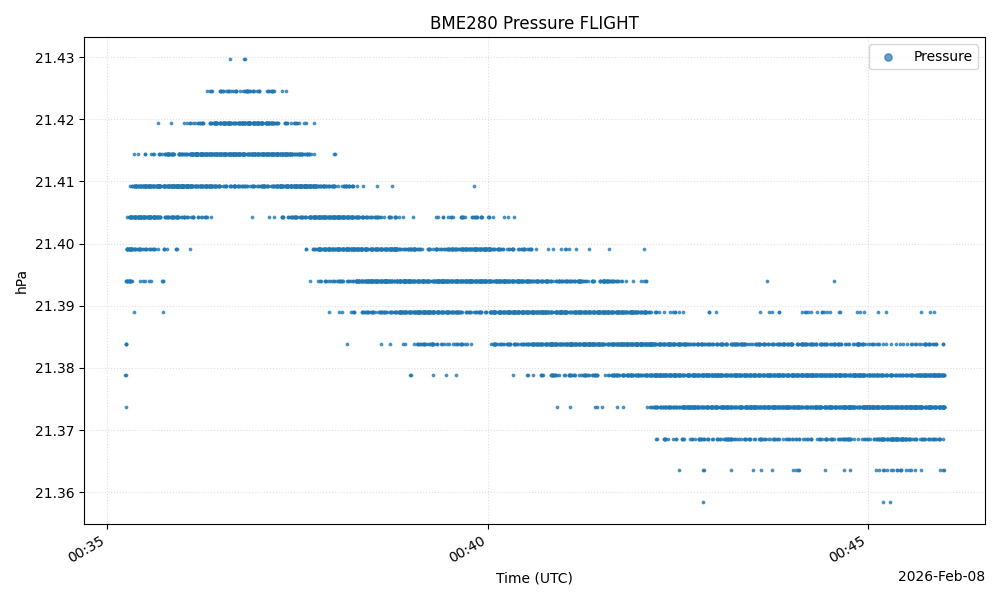
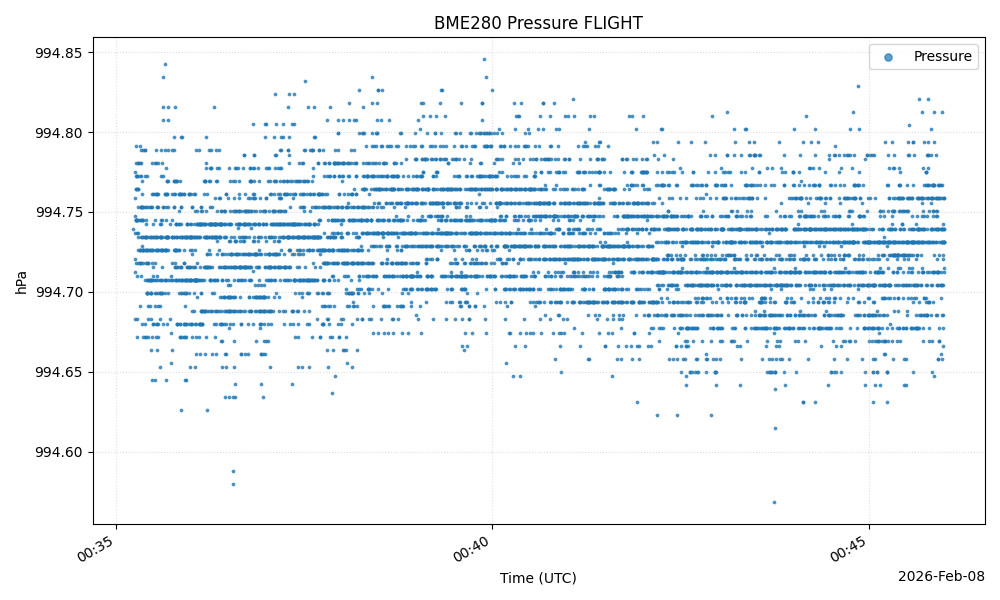
updated plot to fix axes

diff --git a/lab3/plot.py b/lab3/plot.py
@@ -152,13 +152,13 @@ if __name__ == "__main__":
 
         # 1. Temperatures (5 System + 1 BME)
         # Note: BME Temp is index 2 in your parsing logic
-        all_temps = mission_data['temps'] + [mission_data['bme'][2]]
+        all_temps = mission_data['temps'] + [mission_data['bme'][0]]
         temp_labels = [f'T{i+1}' for i in range(5)] + ['BME Temp']
         temp_colors = ['#ff9999', '#ff4d4d', '#cc0000', '#800000', '#4d0000', '#0000ff']
         create_window(f"Temperatures {mode}", time_data, all_temps, temp_labels, "°C", color_map=temp_colors)
 
         # 2. Accelerometer
-        create_window(f"Accelerometer {mode}", time_data, mission_data['accel'], ['X', 'Y', 'Z'], "m/s²")
+        create_window(f"Accelerometer {mode}", time_data, mission_data['accel'], ['X', 'Y', 'Z'], "m/s² OR g")
 
         # 3. Gyroscope
         create_window(f"Gyroscope {mode}", time_data, mission_data['gyro'], ['X', 'Y', 'Z'], "rad/s")
@@ -167,22 +167,22 @@ if __name__ == "__main__":
         create_window(f"Magnetometer {mode}", time_data, mission_data['mag'], ['X', 'Y', 'Z'], "μT")
 
         # 5. BME Pressure
-        create_window(f"BME280 Pressure {mode}", time_data, [mission_data['bme'][0]], ["Pressure"], "hPa")
+        create_window(f"BME280 Pressure {mode}", time_data, [mission_data['bme'][1]], ["Pressure"], "hPa")
 
         # 6. BME Humidity
-        create_window(f"BME280 Humidity {mode}", time_data, [mission_data['bme'][1]], ["Humidity"], "%")
+        create_window(f"BME280 Humidity {mode}", time_data, [mission_data['bme'][2]], ["Humidity"], "%")
 
         # 7. INA Current
-        A = [c / 1000.0 for c in mission_data['ina'][1]]
+        A = [c / 1000.0 for c in mission_data['ina'][0]]
         create_window(f"INA219 Current {mode}", time_data, [A], ["Current"], "A")
 
         # 8. INA Power
-        W = [p / 1000.0 for p in mission_data['ina'][2]]
+        W = [p / 1000.0 for p in mission_data['ina'][1]]
         create_window(f"INA219 Power {mode}", time_data, [W], ["Power"], "W")
         
         # 9. Bus Voltage (Calculated from 12V rail - Shunt Voltage)
         # Assuming d[18] (ina[0]) is Shunt Voltage in mV
-        V_bus = [(12000 - v)/1000.0 for v in mission_data['ina'][0]]
+        V_bus = [(12000 - v)/1000.0 for v in mission_data['ina'][2]]
         create_window(f"Estimated Bus Voltage {mode}", time_data, [V_bus], ["Voltage"], "V")
 
         plt.show()
